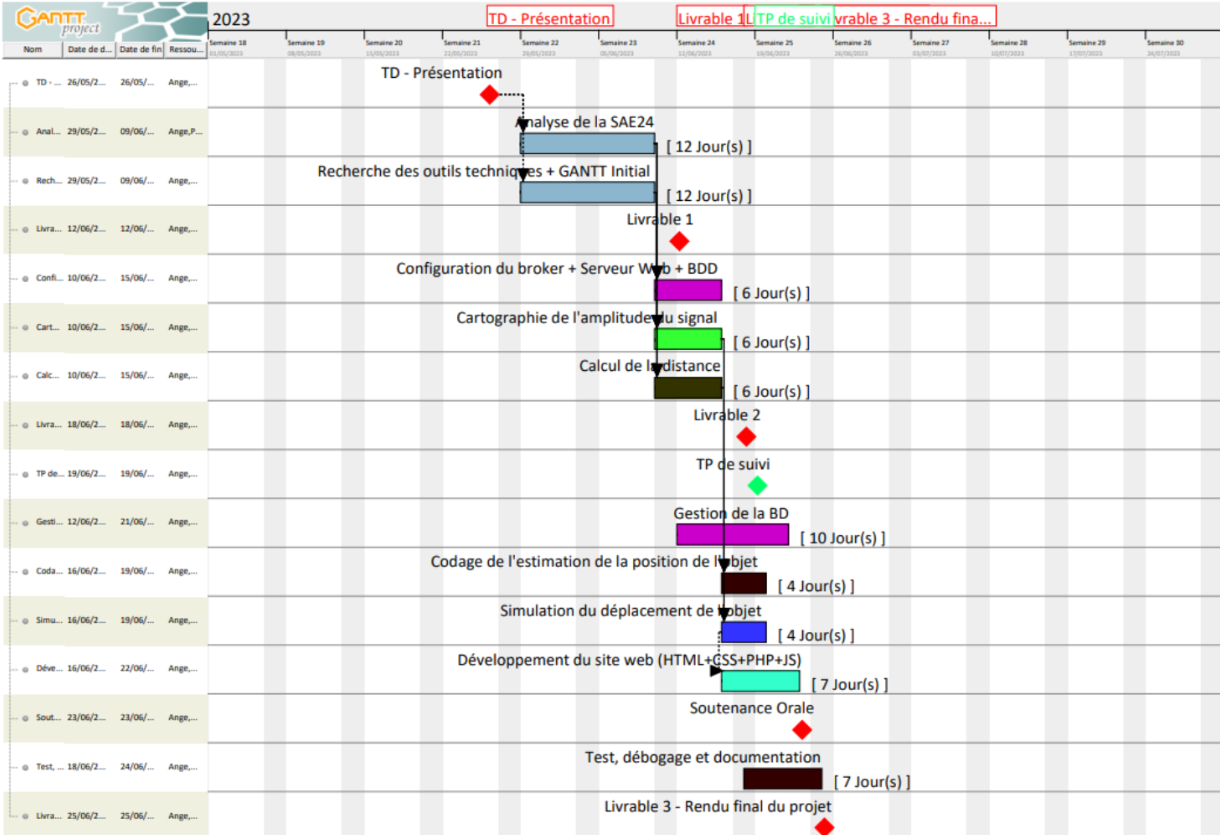
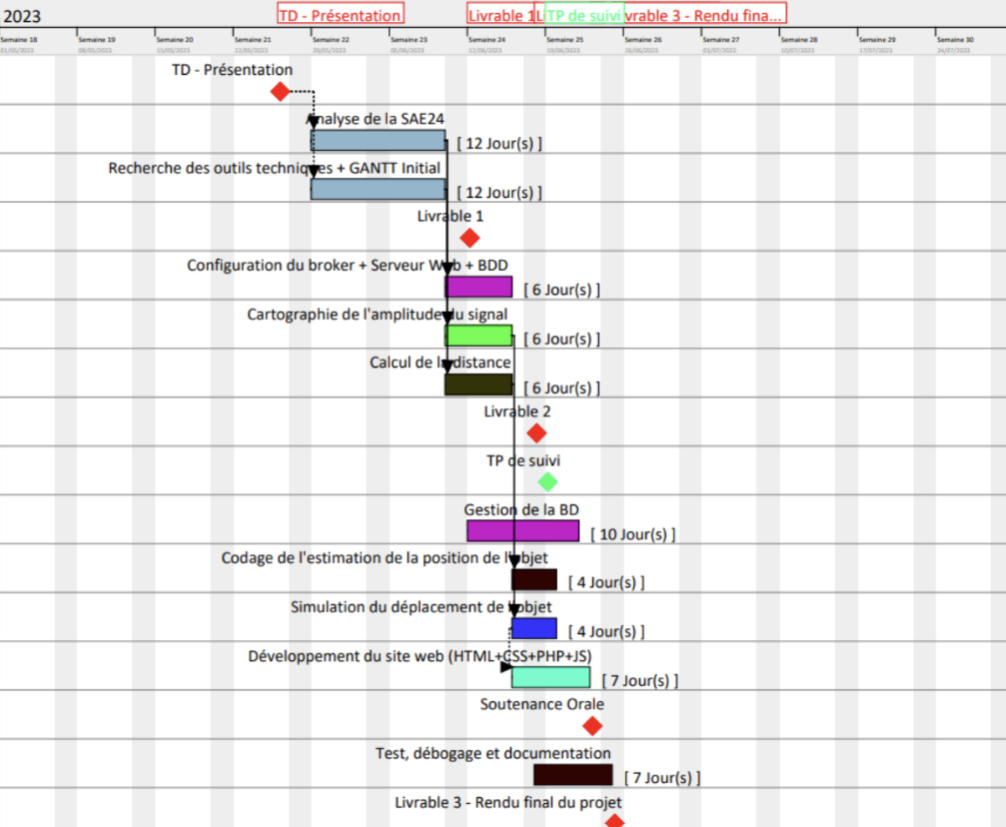
gant
gant

Changed region(s): [[0.0, 0.0, 1.0, 1.0], [0.832, 0.2418, 0.8628, 0.2721], [0.7396, 0.2418, 0.7704, 0.2721]]

diff --git a/style/style_gestion.css b/style/style_gestion.css
@@ -208,6 +208,10 @@ div .left {
     text-align: center;
 }
 
+div .right {
+    text-align: center;
+}
+
 .left,
 .right {
     width: 48%;
@@ -216,7 +220,7 @@ div .left {
 }
 
 #gantt_prev {
-    width: 100%;
+    width: 80%;
 }
 
 #gantt_fin {

diff --git a/gestion.php b/gestion.php
@@ -28,7 +28,7 @@
     <section class="contener">
         <div class="blockgest">
             <div class="right">
-                <img src='./img/Gantt_prev.png' id="gantt_prev"  alt='Diagramme de Gantt prévisionnel'>
+                <img src='./img/gant-initial.png' id="gantt_prev"  alt='Diagramme de Gantt prévisionnel'>
             </div>
             <div class="left">
                 <img id="gantt_fin" src='./img/Gantt-Final-SAE24.png' alt='Diagramme de Gantt final'>
